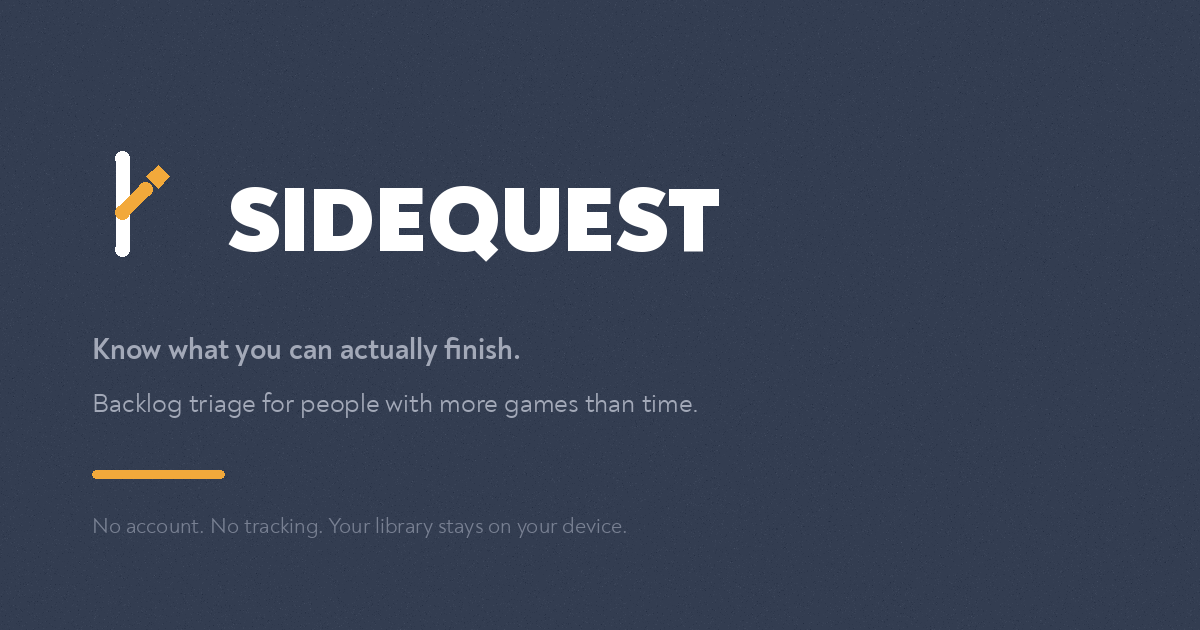
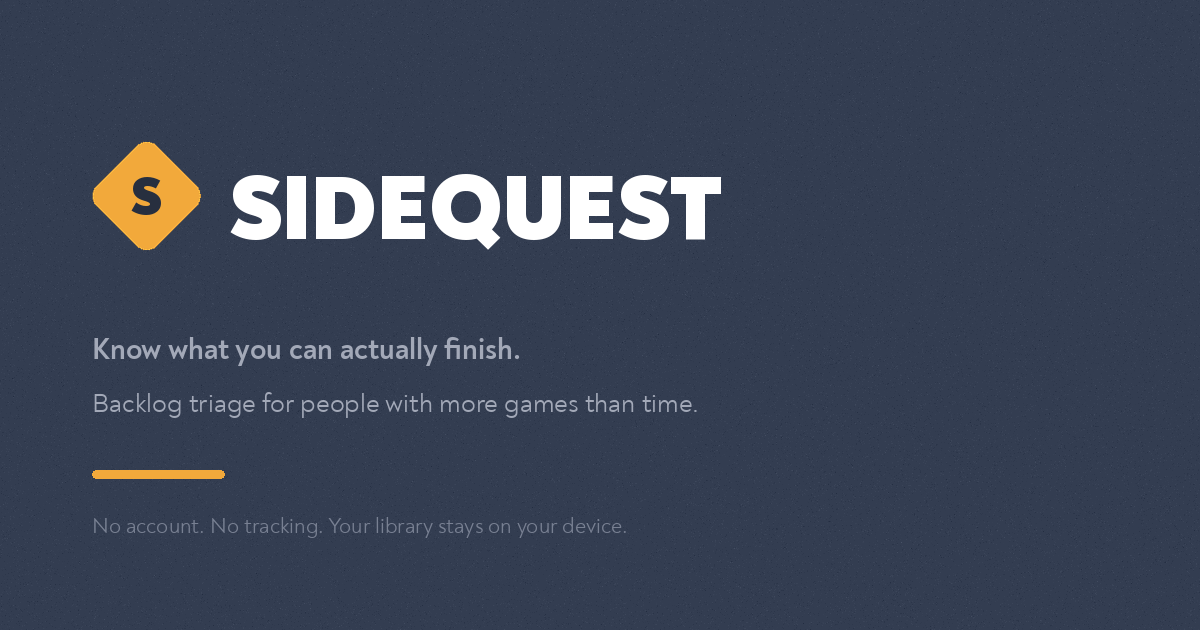
Redraw the mark: a quest marker, not a diagram
The previous mark tried to say three things at once — a path, a branch
leaving it, and a waypoint — and at any real size it read as a lowercase
r with a stray dot. That is a diagram, not a logo.

Explored the space properly this time: twelve candidates rendered as
vectors in the brand typeface and judged at 150px, 48px and 24px, on a
plate and bare, because a mark that only works in a case study is not a
mark. Most failed for reasons only visible small — a route stroke that
read as a chevron, a checkmark that turned to mush, a progress fill that
looked like a waterline.

What survived is the simplest idea in the set: the diamond every player
already reads as "somewhere worth going", with the brand letter knocked
out of it. One idea, two colours, and a silhouette that still resolves in
a browser tab.

Drawn from primitives in the app so it stays crisp and takes its colour
from the tokens; rendered to PNG for the launcher icons and the share
card.

Claude-Session: https://claude.ai/code/session_012oeNhX7pg8vAKrS5pRkW55

Changed region(s): [[0.0617, 0.2111, 0.6167, 0.4222]]

diff --git a/src/components/Mark.tsx b/src/components/Mark.tsx
@@ -1,79 +1,58 @@
-import { StyleSheet, View, type ViewStyle } from 'react-native';
+import { StyleSheet, Text, View, type ViewStyle } from 'react-native';
 
 import { COLORS } from '@/styles/colors';
 
 /**
- * The Sidequest mark: a path that keeps going, and the branch that leaves
- * it for somewhere worth arriving at.
+ * The Sidequest mark: a quest marker with the brand letter knocked out.
  *
- * Drawn from primitives rather than shipped as an asset so it stays crisp
- * at any size, takes its colour from the tokens, and costs no request.
- * The geometry matches the app icons exactly — see scripts/icons.
+ * The diamond is the symbol every player already reads as "something
+ * worth going to" — the marker floating over an objective — and the S
+ * makes it ours rather than generic. One idea, two colours, and a
+ * silhouette that survives a 16px browser tab, which an earlier mark
+ * built from a path, a branch and a waypoint did not.
+ *
+ * Drawn from primitives rather than shipped as an asset: crisp at any
+ * size, coloured from the tokens, and no request to make.
  */
 export function Mark({ size = 22 }: { size?: number }) {
-  const stroke = size * 0.1;
-  const x = size * 0.28;
-
-  // The branch is a bar rotated about its own centre, so it is placed by
-  // the midpoint of the segment it represents rather than its corner.
-  const forkY = size * 0.58;
-  const reach = size * 0.3;
-  const half = reach / 2;
-  const dx = Math.cos(-Math.PI / 4) * half;
-  const dy = Math.sin(-Math.PI / 4) * half;
-
-  const gap = size * 0.12;
-  const tipX = x + dx * 2 + gap;
-  const tipY = forkY + dy * 2 - gap;
-  const diamond = size * 0.15;
+  const side = size * 0.72;
 
   return (
-    <View style={{ width: size, height: size }}>
+    <View style={[styles.frame, { width: size, height: size }]}>
       <View
-        style={[
-          styles.piece,
+        style={
           {
-            left: x - stroke / 2,
-            top: size * 0.08,
-            width: stroke,
-            height: size * 0.84,
-            borderRadius: stroke,
-            backgroundColor: COLORS.white,
-          },
-        ]}
-      />
-      <View
-        style={[
-          styles.piece,
-          {
-            left: x + dx - half,
-            top: forkY + dy - stroke / 2,
-            width: reach,
-            height: stroke,
-            borderRadius: stroke,
-            backgroundColor: COLORS.accent,
-            transform: [{ rotate: '-45deg' }],
-          } as ViewStyle,
-        ]}
-      />
-      <View
-        style={[
-          styles.piece,
-          {
-            left: tipX - diamond / 2,
-            top: tipY - diamond / 2,
-            width: diamond,
-            height: diamond,
-            borderRadius: size * 0.02,
+            position: 'absolute',
+            width: side,
+            height: side,
+            borderRadius: side * 0.16,
             backgroundColor: COLORS.accent,
             transform: [{ rotate: '45deg' }],
-          } as ViewStyle,
-        ]}
+          } as ViewStyle
+        }
       />
+      <Text
+        style={[
+          styles.letter,
+          {
+            fontSize: size * 0.46,
+            // Noah Black sits slightly high in its line box; nudge it back
+            // to the marker's optical centre.
+            lineHeight: size * 0.52,
+          },
+        ]}
+      >
+        S
+      </Text>
     </View>
   );
 }
 
 const styles = StyleSheet.create({
-  piece: { position: 'absolute' },
+  frame: { alignItems: 'center', justifyContent: 'center' },
+  letter: {
+    fontFamily: 'Noah-Black',
+    color: COLORS.navy,
+    textAlign: 'center',
+  },
 });
